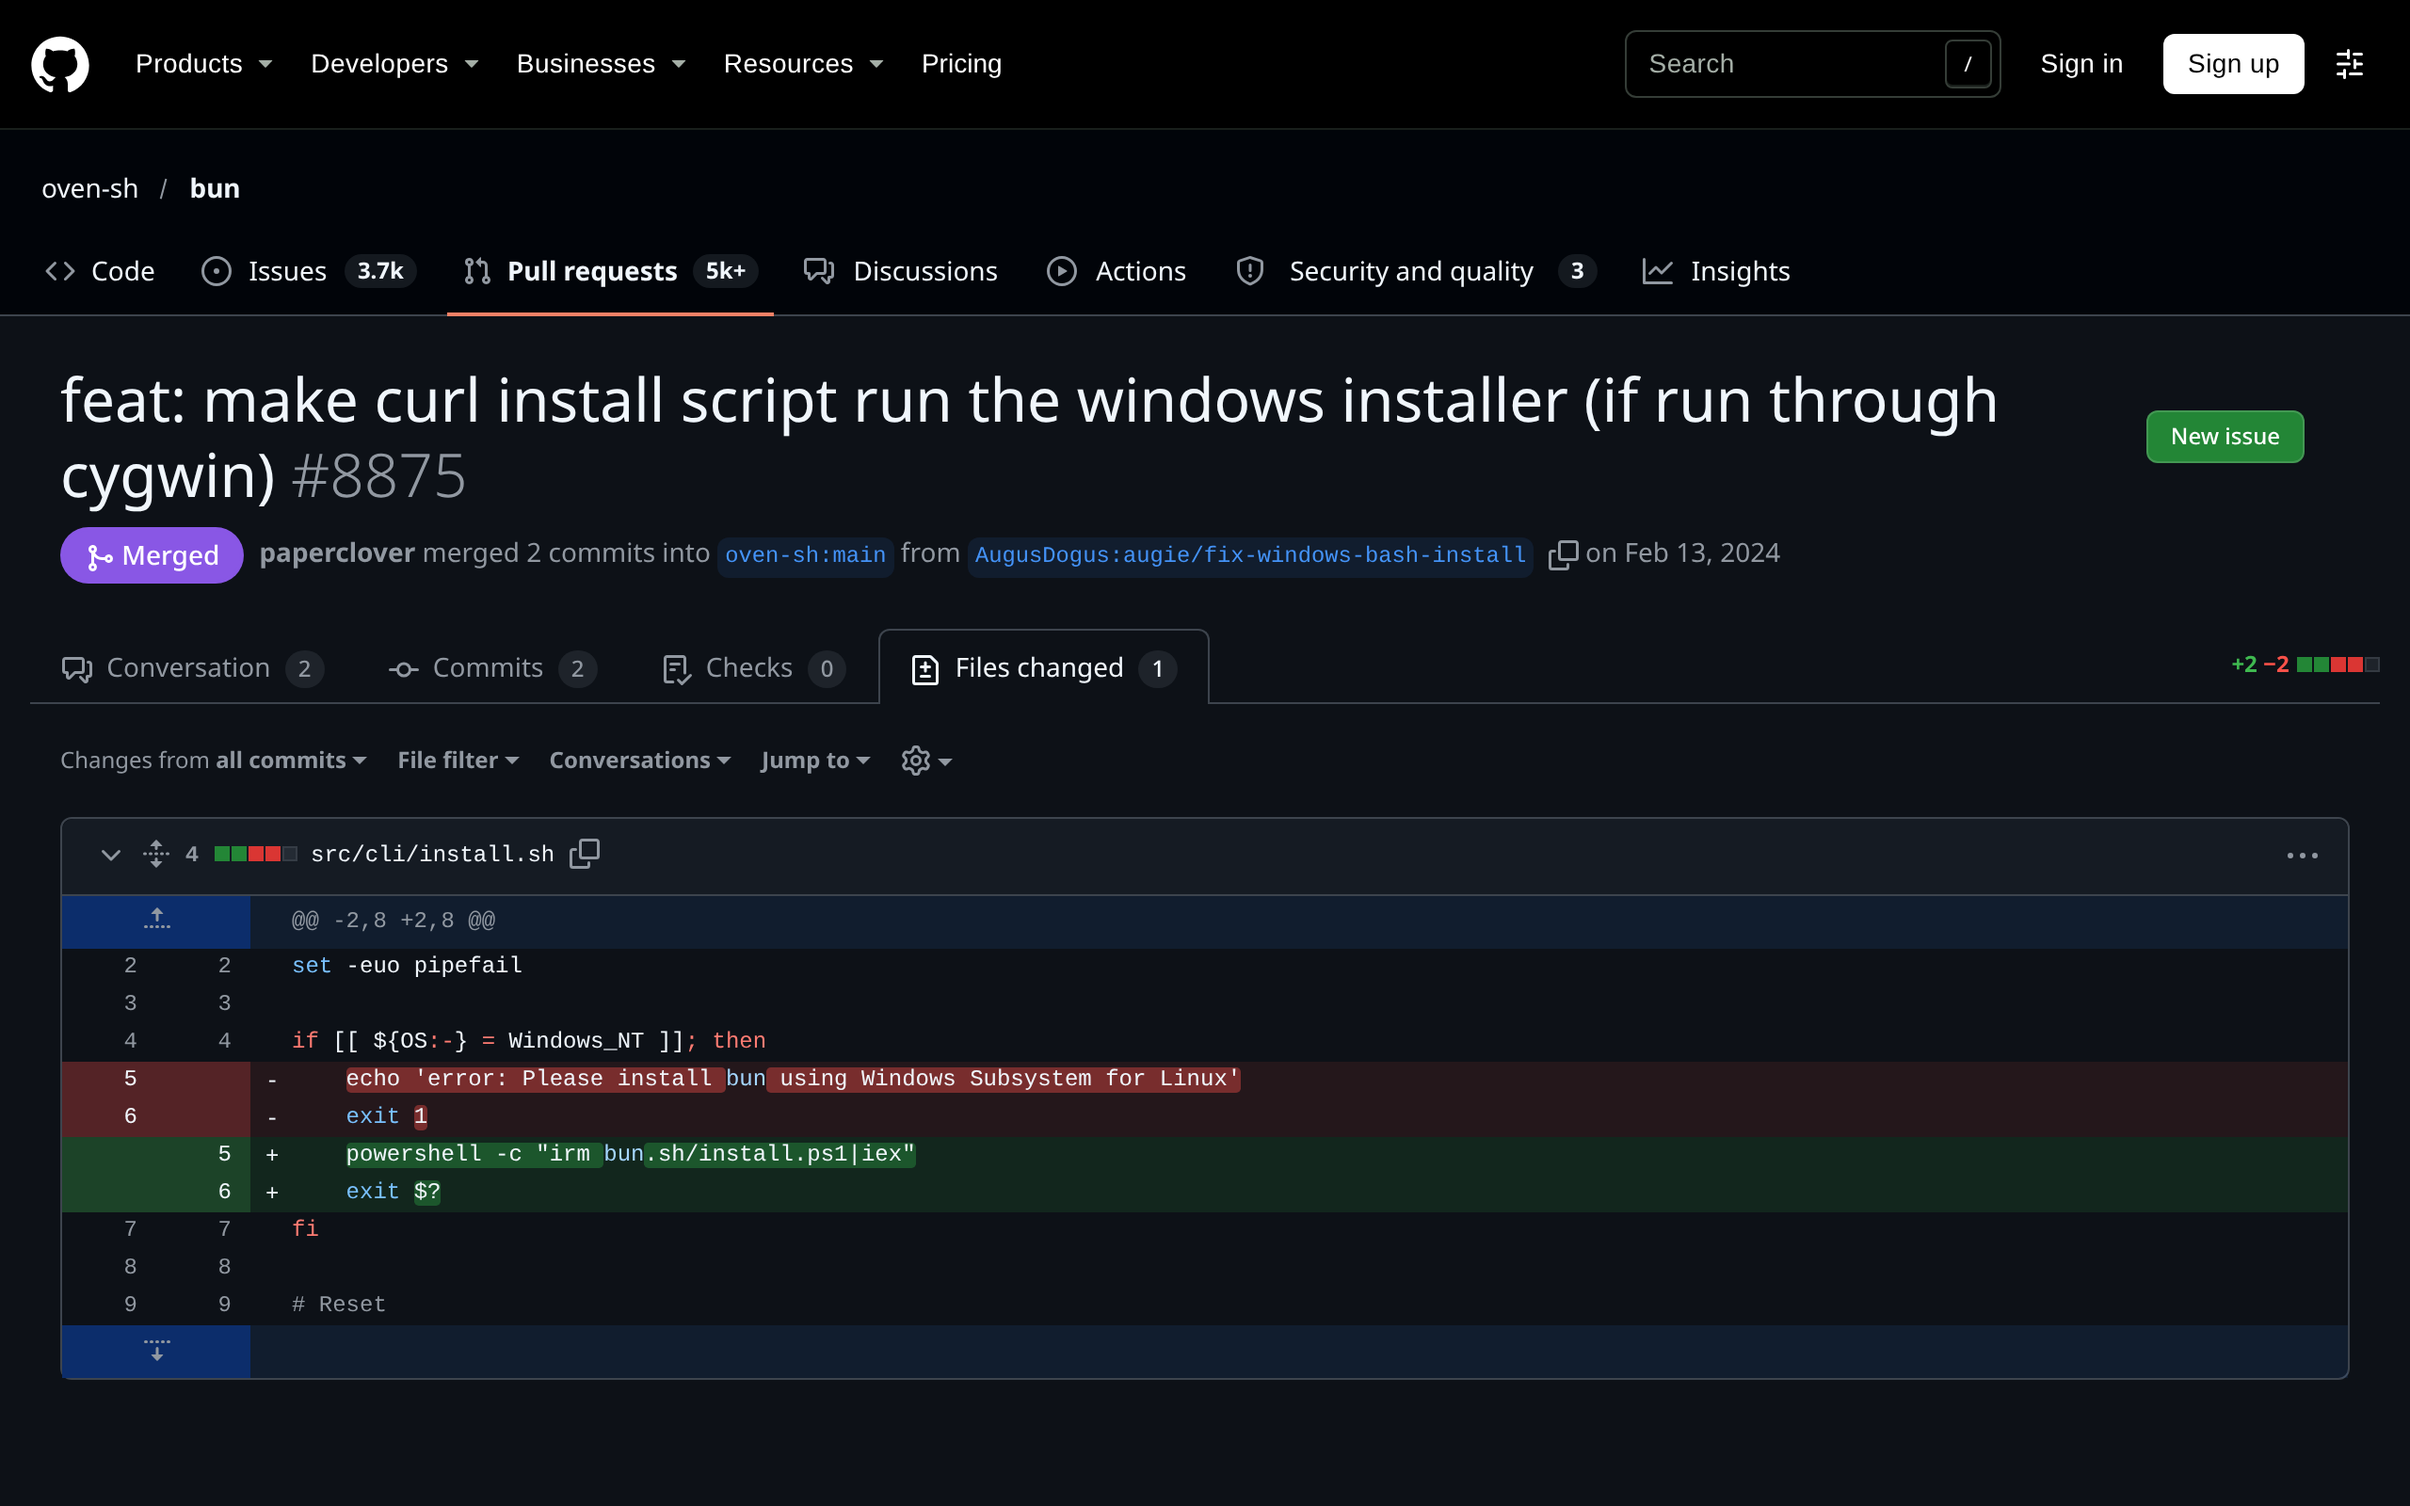
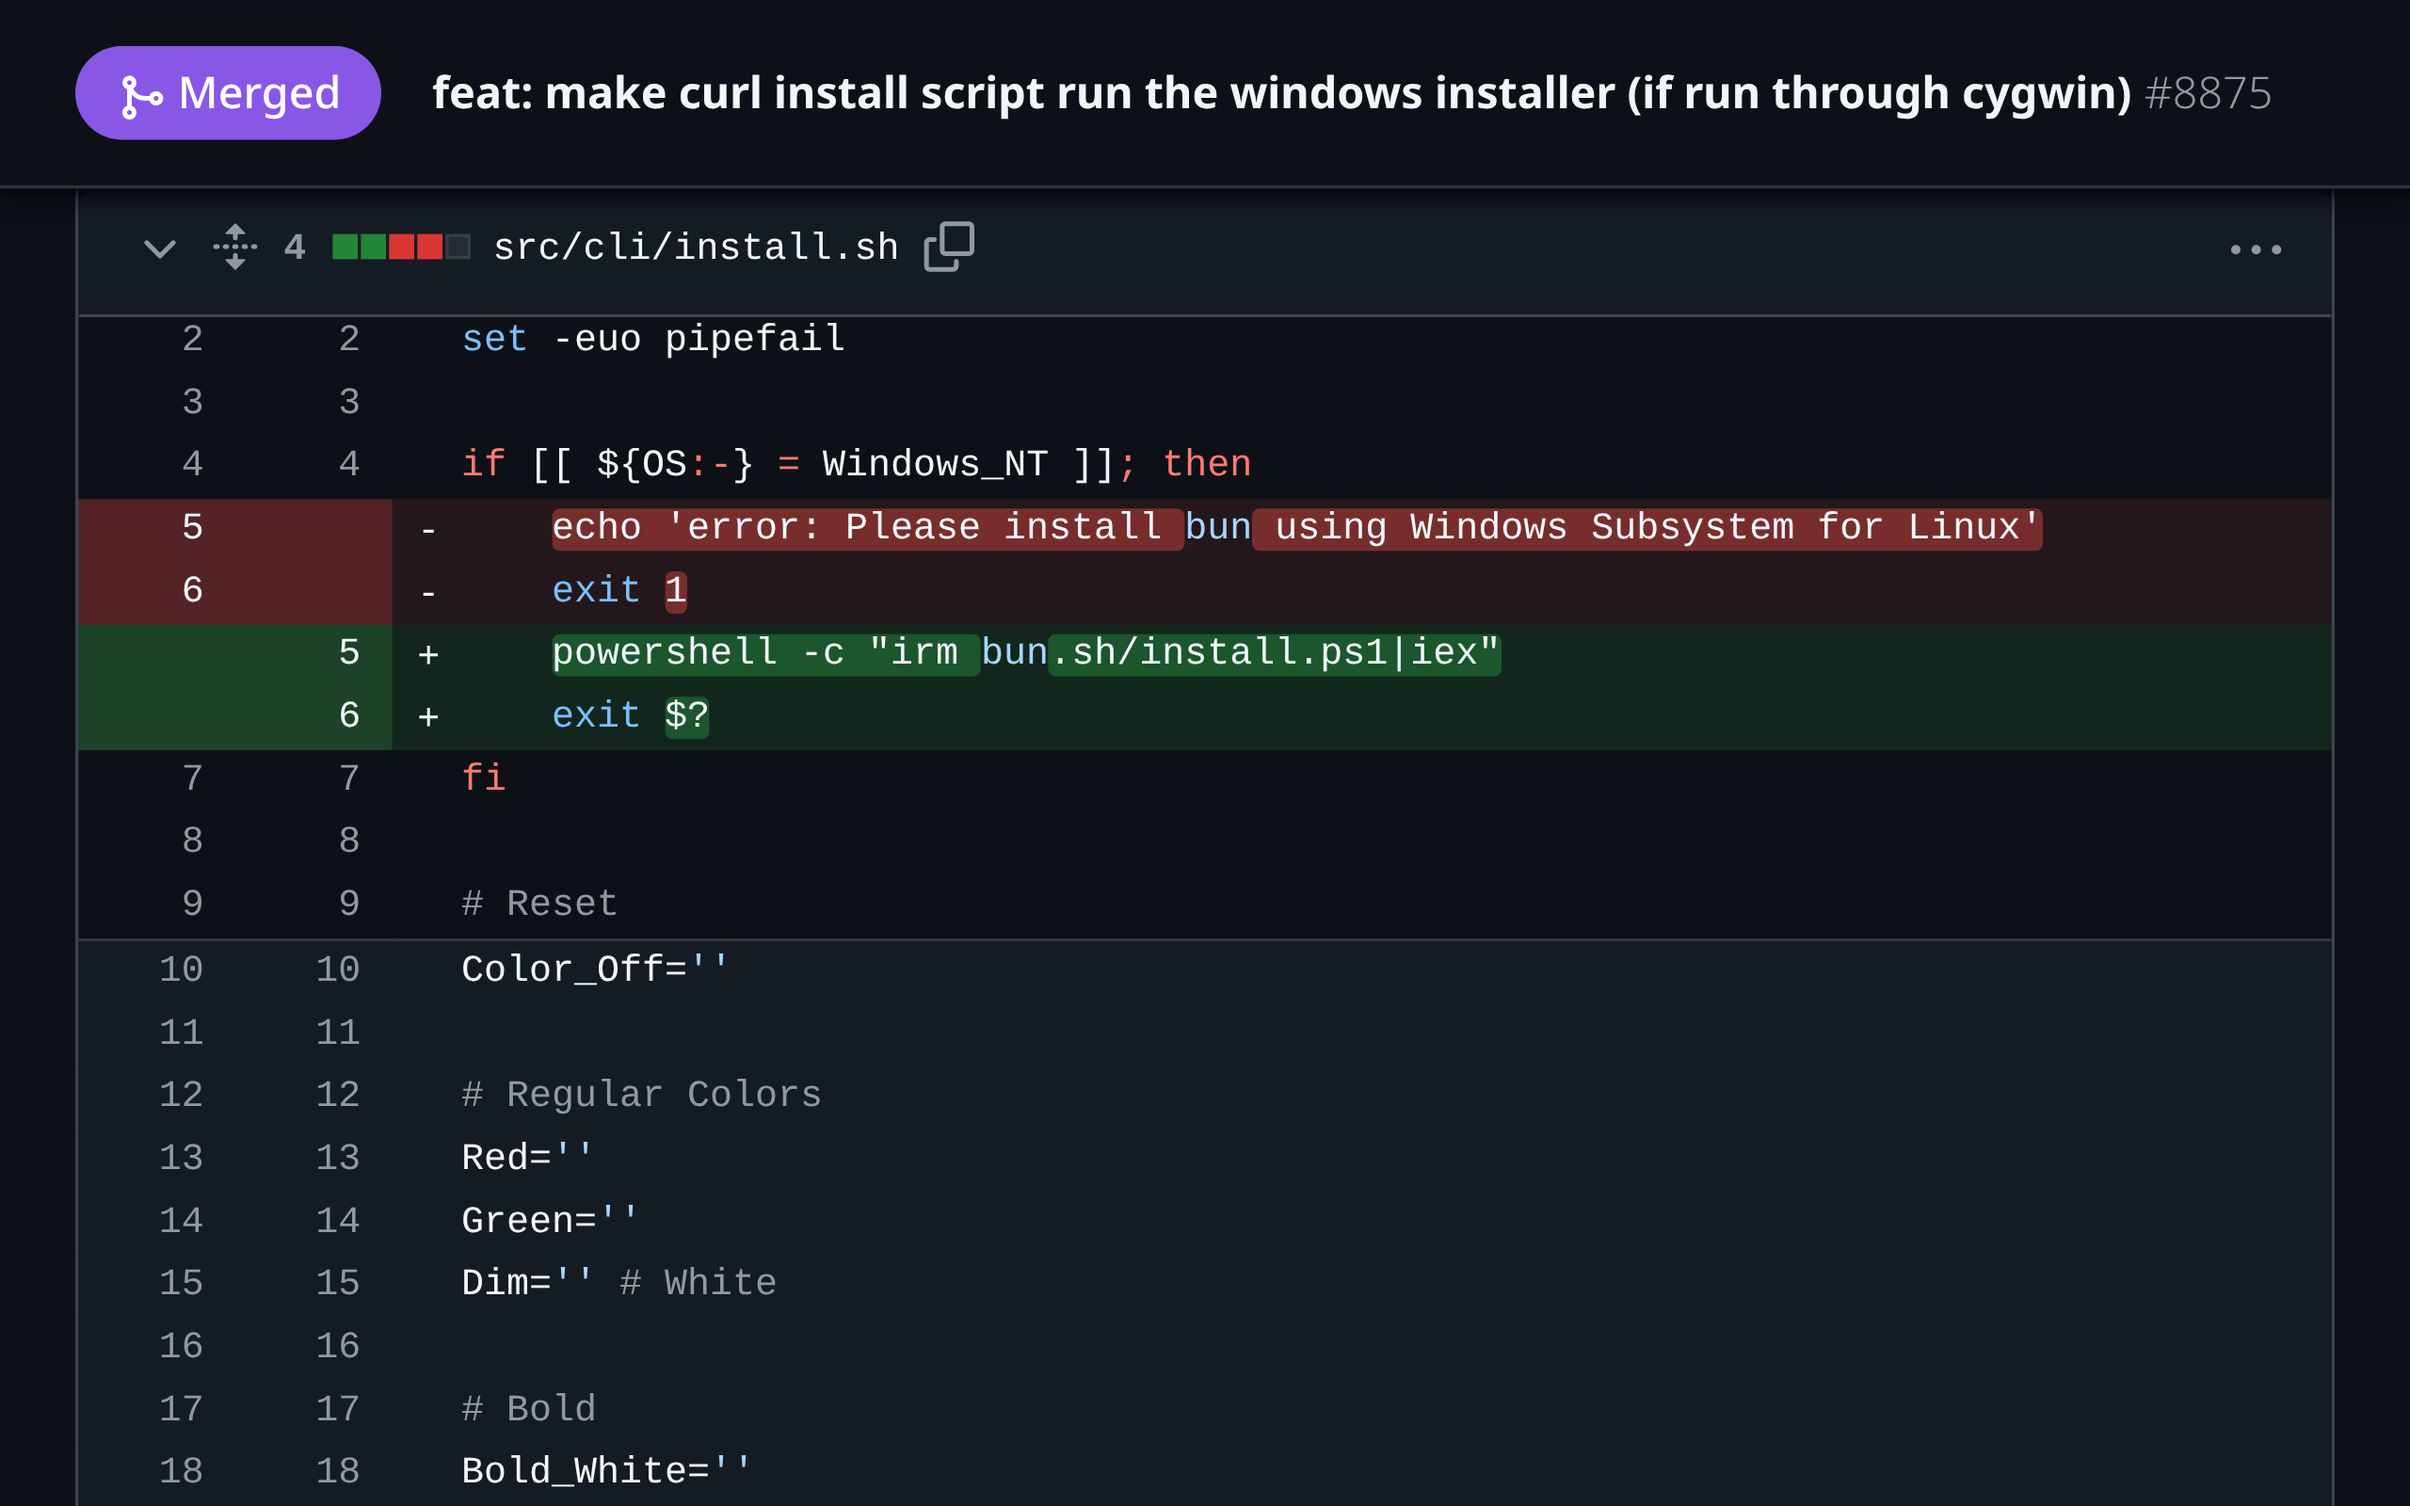
Show the bun cygwin install fix's diff legibly

diff --git a/src/content/projects.ts b/src/content/projects.ts
@@ -1465,7 +1465,7 @@ export const projects: Project[] = [
       {
         kind: "image",
         src: "/work/bun-cygwin-install/desktop.webp",
-        alt: "A merged GitHub pull request in dark mode shows a diff to bun's install.sh, where the line telling Windows users to use WSL is replaced by a PowerShell call to the Windows installer.",
+        alt: "A merged GitHub pull request to oven-sh/bun, titled feat: make curl install script run the windows installer (if run through cygwin), shows the src/cli/install.sh diff in dark mode where the lines telling Windows users to install bun with Windows Subsystem for Linux and exit are replaced by a PowerShell call to bun's Windows installer.",
         width: 2560,
         height: 1600,
         frame: "desktop",
